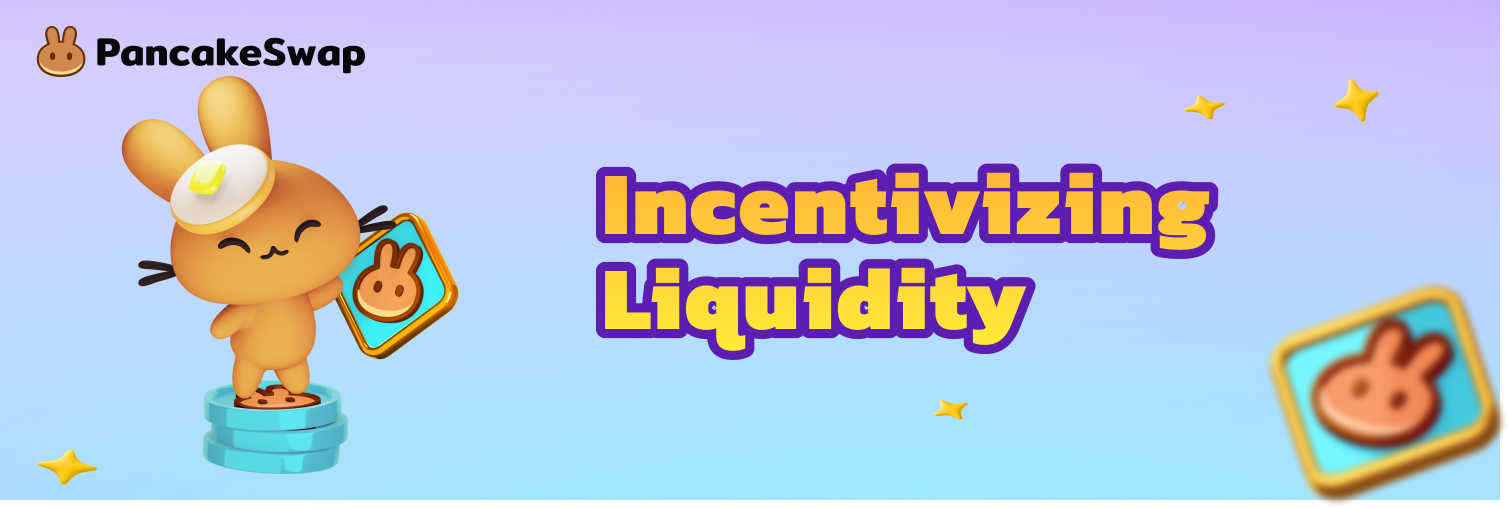
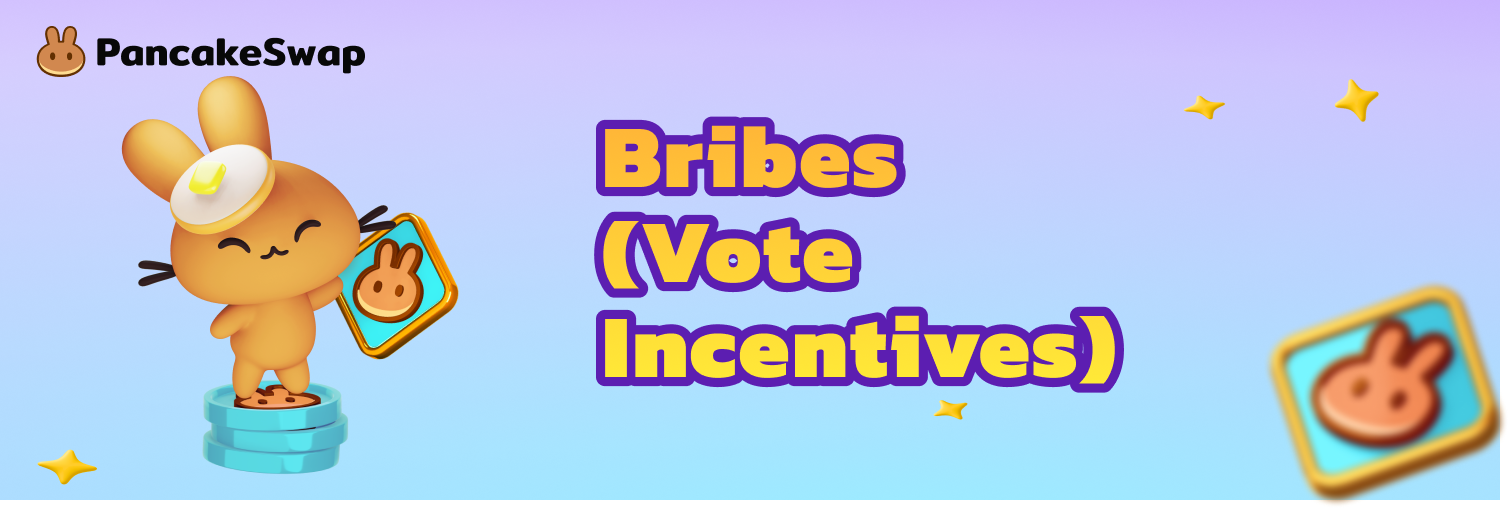
GITBOOK-856: 更新： Vecake- Bribes (Vote Incentives)

Changed region(s): [[0.3738, 0.2063, 0.8098, 0.7957]]

diff --git a/chan-pin/vecake/hui-xuan-tou-piao-ji-li.md b/chan-pin/vecake/hui-xuan-tou-piao-ji-li.md
@@ -1,0 +1,20 @@
+# 贿选 (投票激励)
+
+<figure><img src="../../.gitbook/assets/image.png" alt=""><figcaption></figcaption></figure>
+
+除了通过我们的 [每周 CAKE 奖励池](mei-zhou-zhuan-qu-cake/) 赚取 CAKE 之外，veCAKE 持有者还可以通过投票给特定的 Gauges ，从而向外部贿选市场索要贿赂。这些贿赂通常由外部项目团队提供给我们的 [veCAKE 管理协议](vecake-guan-li-xie-yi.md)。&#x20;
+
+这为 veCAKE 持有者提供了额外的收益来源，同时也使他们获得的代币收益类型多样化。&#x20;
+
+贿选市场有两种类型：
+
+1. 一级贿选市场：项目提供贿赂，以激励 **veCAKE 持有者** 投票给其选定的 Gauge 。&#x20;
+2. 二级贿选市场：项目提供贿赂，以激励 **衍生项目的代币持有者**（如 Cakepie 的 vlCKP）投票给其选定的 Gauge。之后，相关协议（如 Cakepie）将根据其代币持有者的投票结果，用自己持有的 veCAKE 投票给对应的 Gauges。
+
+我们目前有两个主要的贿选市场，veCAKE 持有者可以在这里投票给 Gauges，并向外部团队索取贿赂：&#x20;
+
+1. [Hidden Hand](https://hiddenhand.finance/pancakeswap)
+2. [Votemarket ](https://votemarket.stakedao.org/?market=cake\&solution=All)（由 StakeDAO 提供）&#x20;
+
+veCAKE 持有者可定期查看这些贿选市场，向有助于增加自己 veCAKE 收益的 Gauges 投票。
+

diff --git a/sheng-tai-xi-tong-he-zuo-huo-ban-guan-xi/shang-wu-he-zuo/gauges.md b/sheng-tai-xi-tong-he-zuo-huo-ban-guan-xi/shang-wu-he-zuo/gauges.md
@@ -1,4 +1,4 @@
-# ⛽ Vecake/Gauges
+# ⛽ Vecake-Gauges
 
 如需从项目方角度了解有关 veCAKE 和 gauge 的更多信息，请查看此 PDF 文件：
 
@@ -6,8 +6,8 @@
 
 简单来说，从项目方的角度来看，有两种方法可以激励 PancakeSwap 上的流动性：&#x20;
 
-1. [将 CAKE 锁定](https://pancakeswap.finance/cake-staking)为 BNB 链上的 veCAKE，向 [您选择的 Gauge](https://pancakeswap.finance/gauges-voting) 投票&#x20;
-2. 在 [veCAKE 管理协议](../../chan-pin/vecake/vecake-guan-li-xie-yi.md) 上提供贿赂，激励其他人为 [您选择的 Gauge](https://pancakeswap.finance/gauges-voting) 投票&#x20;
+1. [将 CAKE 锁定](https://pancakeswap.finance/cake-staking)为 BNB 链上的 veCAKE，投票给 [您选定的 Gauge](https://pancakeswap.finance/gauges-voting) 投票&#x20;
+2. 在 [veCAKE 管理协议](../../chan-pin/vecake/vecake-guan-li-xie-yi.md) 上提供贿赂，激励其他人投票给 [您选定的 Gauge](https://pancakeswap.finance/gauges-voting) &#x20;
 
 这两种方法都将帮助 您选择的 Gauges / 流动性代币对，通过我们的 [农场](https://pancakeswap.finance/farms) 获得 CAKE 激励。注意所有的 Gauge 需要先成为 PancakeSwap 白名单上的一员。
 

diff --git a/SUMMARY.md b/SUMMARY.md
@@ -66,6 +66,7 @@
       * [每周赚取 CAKE FAQ](chan-pin/vecake/mei-zhou-zhuan-qu-cake/mei-zhou-zhuan-qu-cake-faq.md)
     * [Gauges Voting](chan-pin/vecake/gauges-voting/README.md)
       * [Gauge Voting FAQ](chan-pin/vecake/gauges-voting/gauge-voting-faq.md)
+    * [贿选 (投票激励)](chan-pin/vecake/hui-xuan-tou-piao-ji-li.md)
     * [veCAKE 管理协议](chan-pin/vecake/vecake-guan-li-xie-yi.md)
     * [为项目激励流动性](chan-pin/vecake/wei-xiang-mu-ji-li-liu-dong-xing.md)
     * [veCAKE FAQ](chan-pin/vecake/faq.md)

diff --git a/chan-pin/vecake/wei-xiang-mu-ji-li-liu-dong-xing.md b/chan-pin/vecake/wei-xiang-mu-ji-li-liu-dong-xing.md
@@ -1,6 +1,6 @@
 # 为项目激励流动性
 
-<figure><img src="../../.gitbook/assets/image.png" alt=""><figcaption></figcaption></figure>
+<figure><img src="../../.gitbook/assets/image (1).png" alt=""><figcaption></figcaption></figure>
 
 希望通过 veCAKE 系统激励流动性的项目，请前往此页面：
 

diff --git a/chan-pin/vecake/vecake-guan-li-xie-yi.md b/chan-pin/vecake/vecake-guan-li-xie-yi.md
@@ -1,6 +1,6 @@
 # veCAKE 管理协议
 
-<figure><img src="../../.gitbook/assets/image (1).png" alt=""><figcaption></figcaption></figure>
+<figure><img src="../../.gitbook/assets/image (1) (8).png" alt=""><figcaption></figcaption></figure>
 
 veCAKE 不仅仅是一个产品，更是一个生态系统。&#x20;
 
